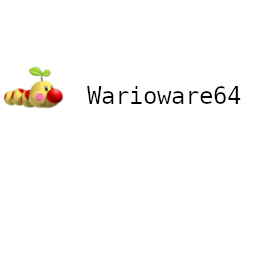
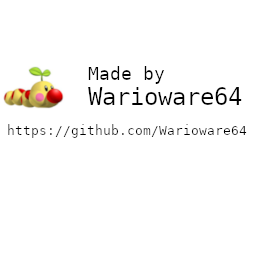
Intro commit

Changed region(s): [[0.3438, 0.25, 0.9375, 0.4375], [0.0312, 0.4688, 0.4688, 0.5625], [0.5, 0.4688, 0.9688, 0.5312]]

diff --git a/source/Intro.cpp b/source/Intro.cpp
@@ -10,9 +10,59 @@ Intro::~Intro()
     
 }
 
-void Intro::LoadAssetsIntro()
+void Intro::SCREEN_TOP()
 {
+    NEA_2DViewInit();
 
+    //NEA_ClearColorSet(NEA_White, 31, 63);
+
+    NEA_SpriteDraw(this->bgSprite[0]);
 }
 
+void Intro::SCREEN_BOTTOM()
+{
+    NEA_2DViewInit();
+
+    //NEA_ClearColorSet(NEA_White, 31, 63);
+
+    NEA_SpriteDraw(this->bgSprite[1]);
+}
+void Intro::LoadAssetsIntro()
+{
+    this->matBg[0] = NEA_MaterialCreate();
+    this->palBG[0] = NEA_PaletteCreate();
+
+    this->matBg[1] = NEA_MaterialCreate();
+    this->palBG[1] = NEA_PaletteCreate();
+
+    NEA_MaterialTexLoadGRF(this->matBg[0], this->palBG[0],
+                         NEA_TEXGEN_TEXCOORD, "introTitle/MainSCREEN_png.grf");
+    NEA_MaterialTexLoadGRF(this->matBg[1], this->palBG[1],
+                        NEA_TEXGEN_TEXCOORD, "introTitle/BottomSCREEN_png.grf");
+
+    this->bgSprite[0] = NEA_SpriteCreate();
+    this->bgSprite[1] = NEA_SpriteCreate();
+
+    NEA_SpriteSetMaterial(this->bgSprite[0], this->matBg[0]);
+    NEA_SpriteSetMaterial(this->bgSprite[1], this->matBg[1]);
+
+    NEA_SpriteSetPos(this->bgSprite[0], 0, 0);
+    NEA_SpriteSetPos(this->bgSprite[1], 0, 0);
+
+    //NEA_SpriteSetPriority(this->bgSprite[0], 10);
+    //NEA_SpriteSetPriority(this->bgSprite[1], 10);
+}
+
+void Intro::RenderIntro()
+{
+    while(1)
+    {
+        NEA_WaitForVBL(static_cast<NEA_UpdateFlags>(0));
+        NEA_ProcessDual([](){
+            intro.SCREEN_BOTTOM();
+        }, [](){
+            intro.SCREEN_TOP();
+        });
+    }
+}
 Intro intro;

diff --git a/source/Process.cpp b/source/Process.cpp
@@ -12,6 +12,9 @@ Process::~Process()
 
 void Process::ProcessInit()
 {
+    irqEnable(IRQ_HBLANK);
+    irqSet(IRQ_VBLANK, NEA_VBLFunc);
+    irqSet(IRQ_HBLANK, NEA_HBLFunc);
 
     if (!nitroFSInit(NULL))
     {
@@ -19,6 +22,12 @@ void Process::ProcessInit()
         std::terminate();
     }
 
+    NEA_InitDual3D_DMA();
+    NEA_TextureSystemReset(0, 0, static_cast<NEA_VRAMBankFlags>(NEA_VRAM_AB));
+
+    intro.LoadAssetsIntro();
+    intro.RenderIntro();
+    
 }
 void Process::ProcessGame()
 {

diff --git a/source/Intro.hpp b/source/Intro.hpp
@@ -4,14 +4,20 @@
 
 class Intro
 {
-    friend class Process;
+    //friend class Process;
     private:
-
+        void SCREEN_TOP();
+        void SCREEN_BOTTOM();
+        
+        NEA_Sprite *bgSprite[2];
+        NEA_Material *matBg[2];
+        NEA_Palette *palBG[2];
     public:
         Intro();
         ~Intro();
 
         void LoadAssetsIntro();
+        void RenderIntro();
 };
 
 extern Intro intro;

diff --git a/build.py b/build.py
@@ -10,7 +10,7 @@ from architectds import *
 
 
 nitrofs = NitroFS()
-nitrofs.add_nflib_bg_8bit(['resources/introBGs/'], out_dir="introTitle/")
+nitrofs.add_ptexconv(['resources/introBGs/'], out_dir="introTitle/")
 #nitrofs.add_ptexconv_tex4x4(['testPtxe4'], out_dir="texture/test")
 nitrofs.generate_image()
 
